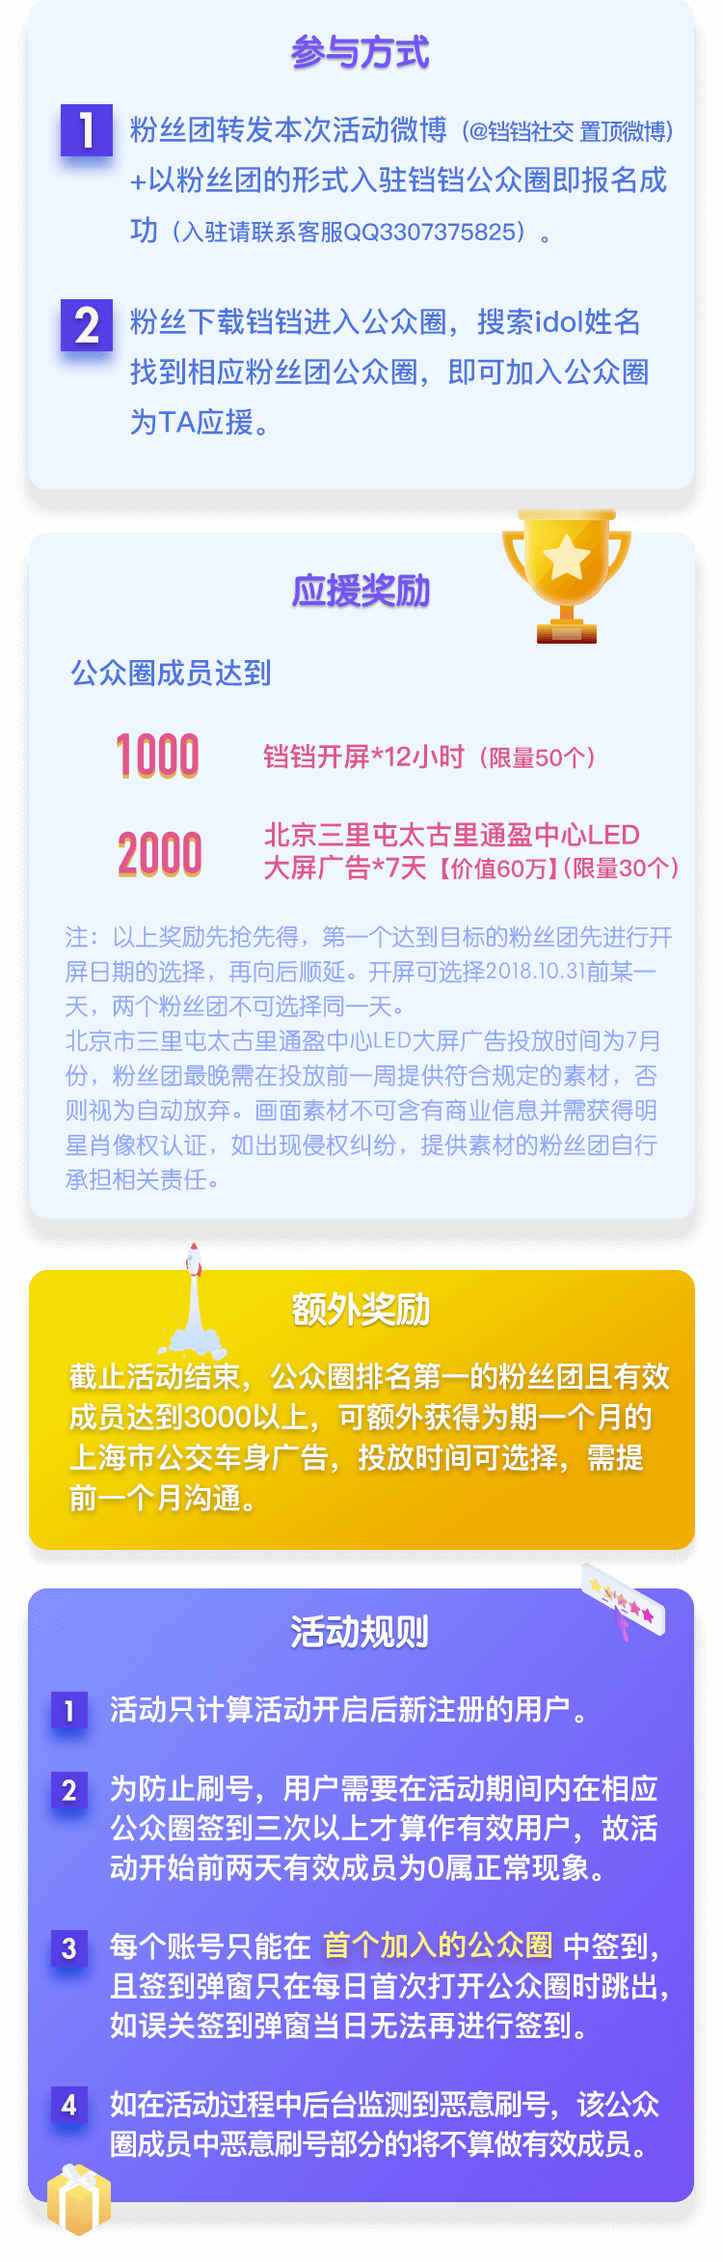
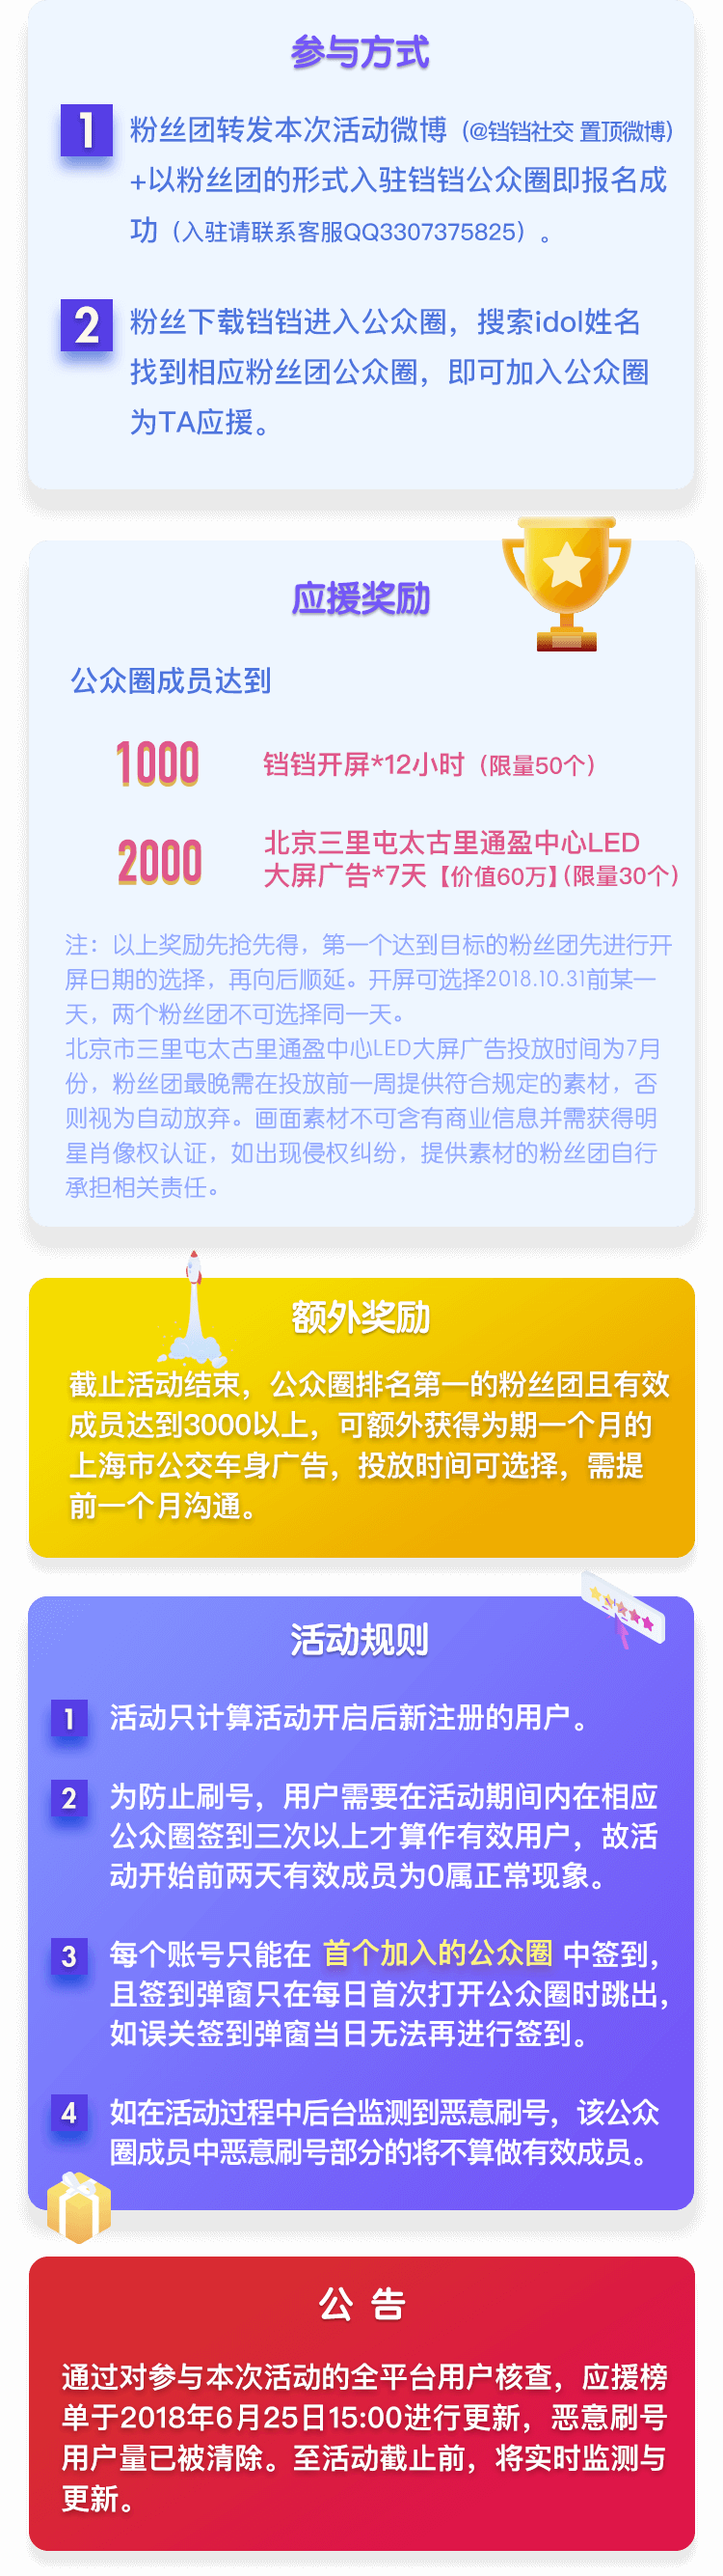
fans

diff --git a/src/page/h5/fans/fans.less b/src/page/h5/fans/fans.less
@@ -185,7 +185,7 @@
             }
         }
         .rule{
-            height: @base*2313rem;
+            height: @base*2669rem;
             background-size: contain;
             background-position: center;
             background-repeat: no-repeat;
